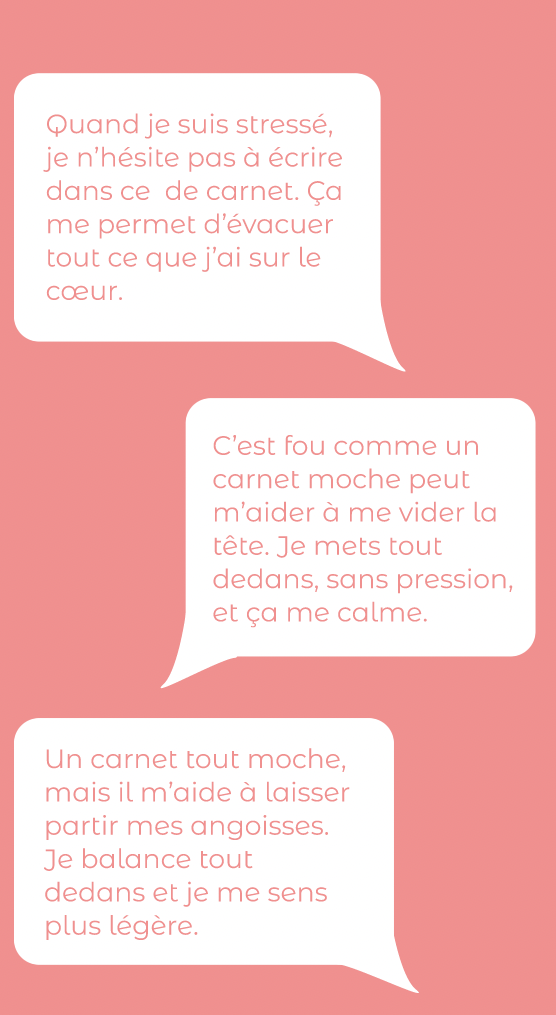
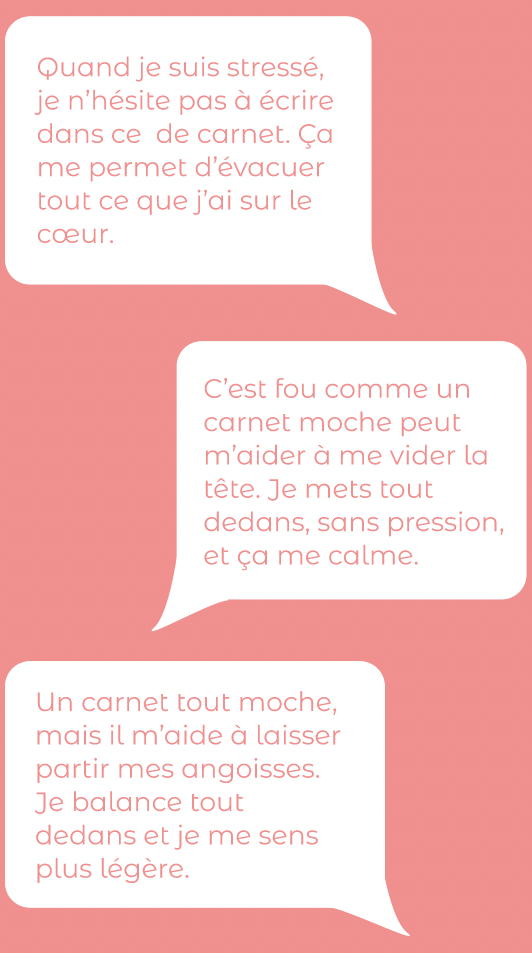
maj tél

Changed region(s): [[0.0, 0.0, 0.9925, 0.9738], [0.7519, 0.9738, 0.782, 1.0], [0.0301, 0.9433, 0.0602, 0.9738]]

diff --git a/styles.css b/styles.css
@@ -640,6 +640,7 @@ body {
 }
 
 .carnet {
+	margin-top: 30px;
 	width: 400px;
 	height: 720px;
 }
@@ -661,6 +662,8 @@ body {
 	margin-top: 30px;
 	width: 330px;
 	height: 610px;
+	margin-left: 20px;
+	margin-right: 20px;
 }
 
 .texte-clic a {
@@ -668,6 +671,8 @@ body {
 	font-size: 24px;
 	color: white;
 	margin-top: 28px;	
+	margin-left: 20px;
+	margin-right: 20px;
 }
 }
 
